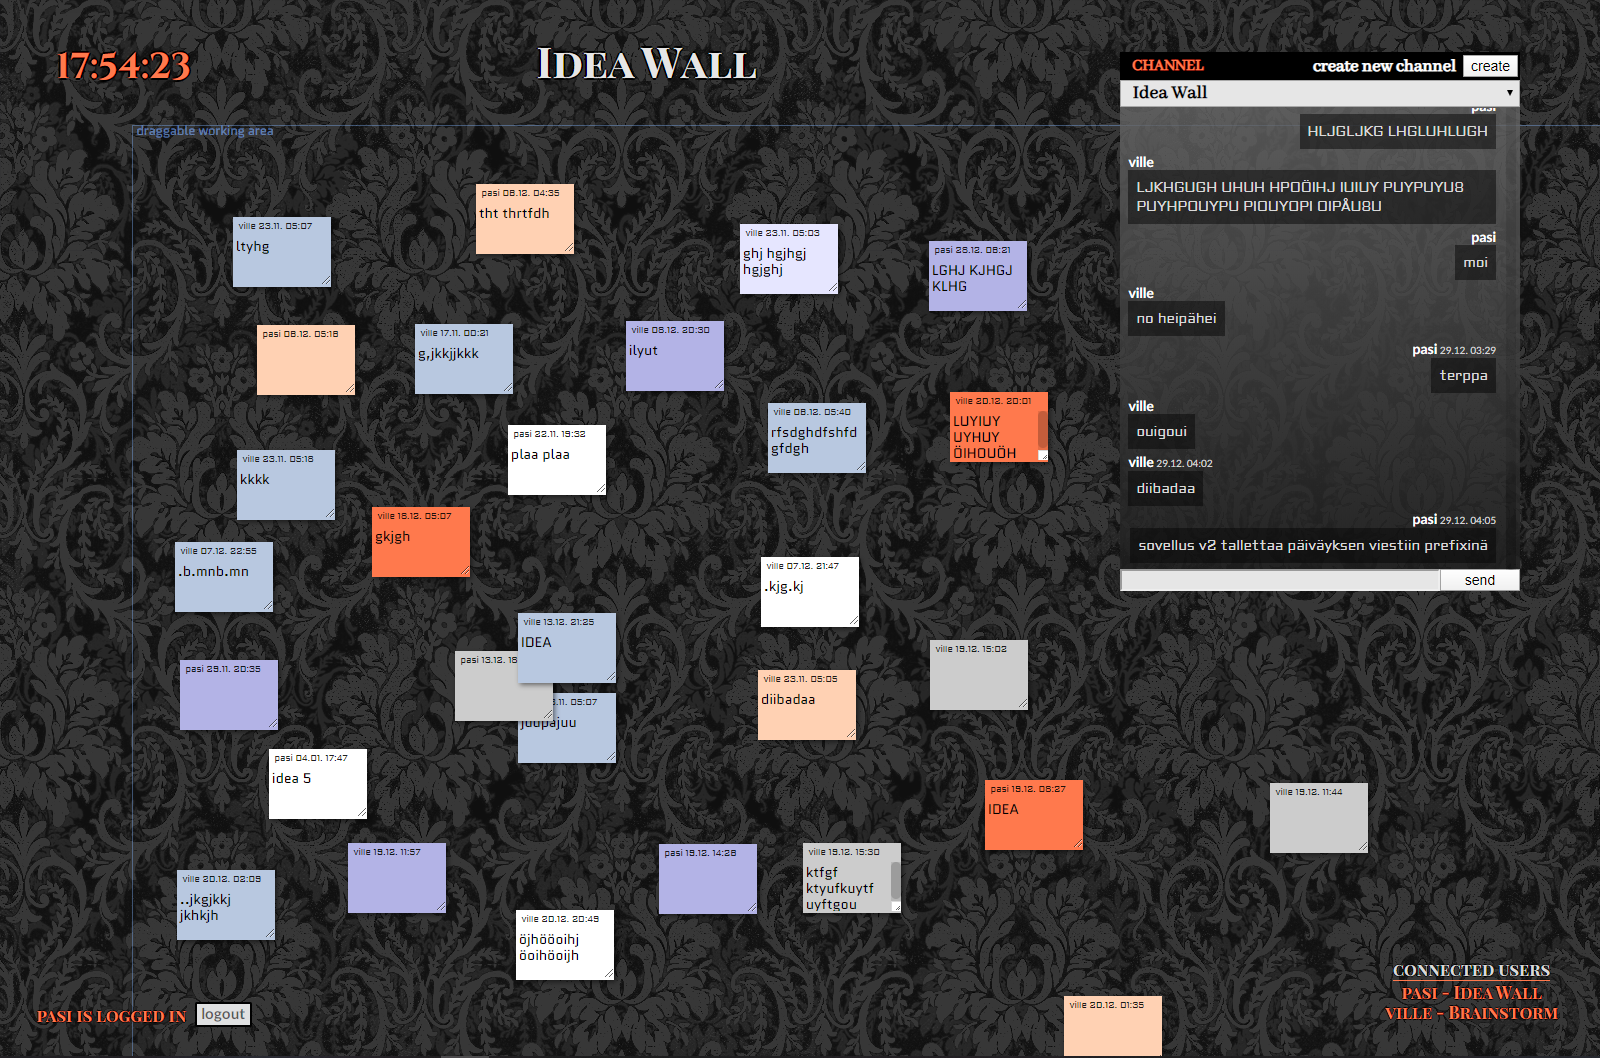
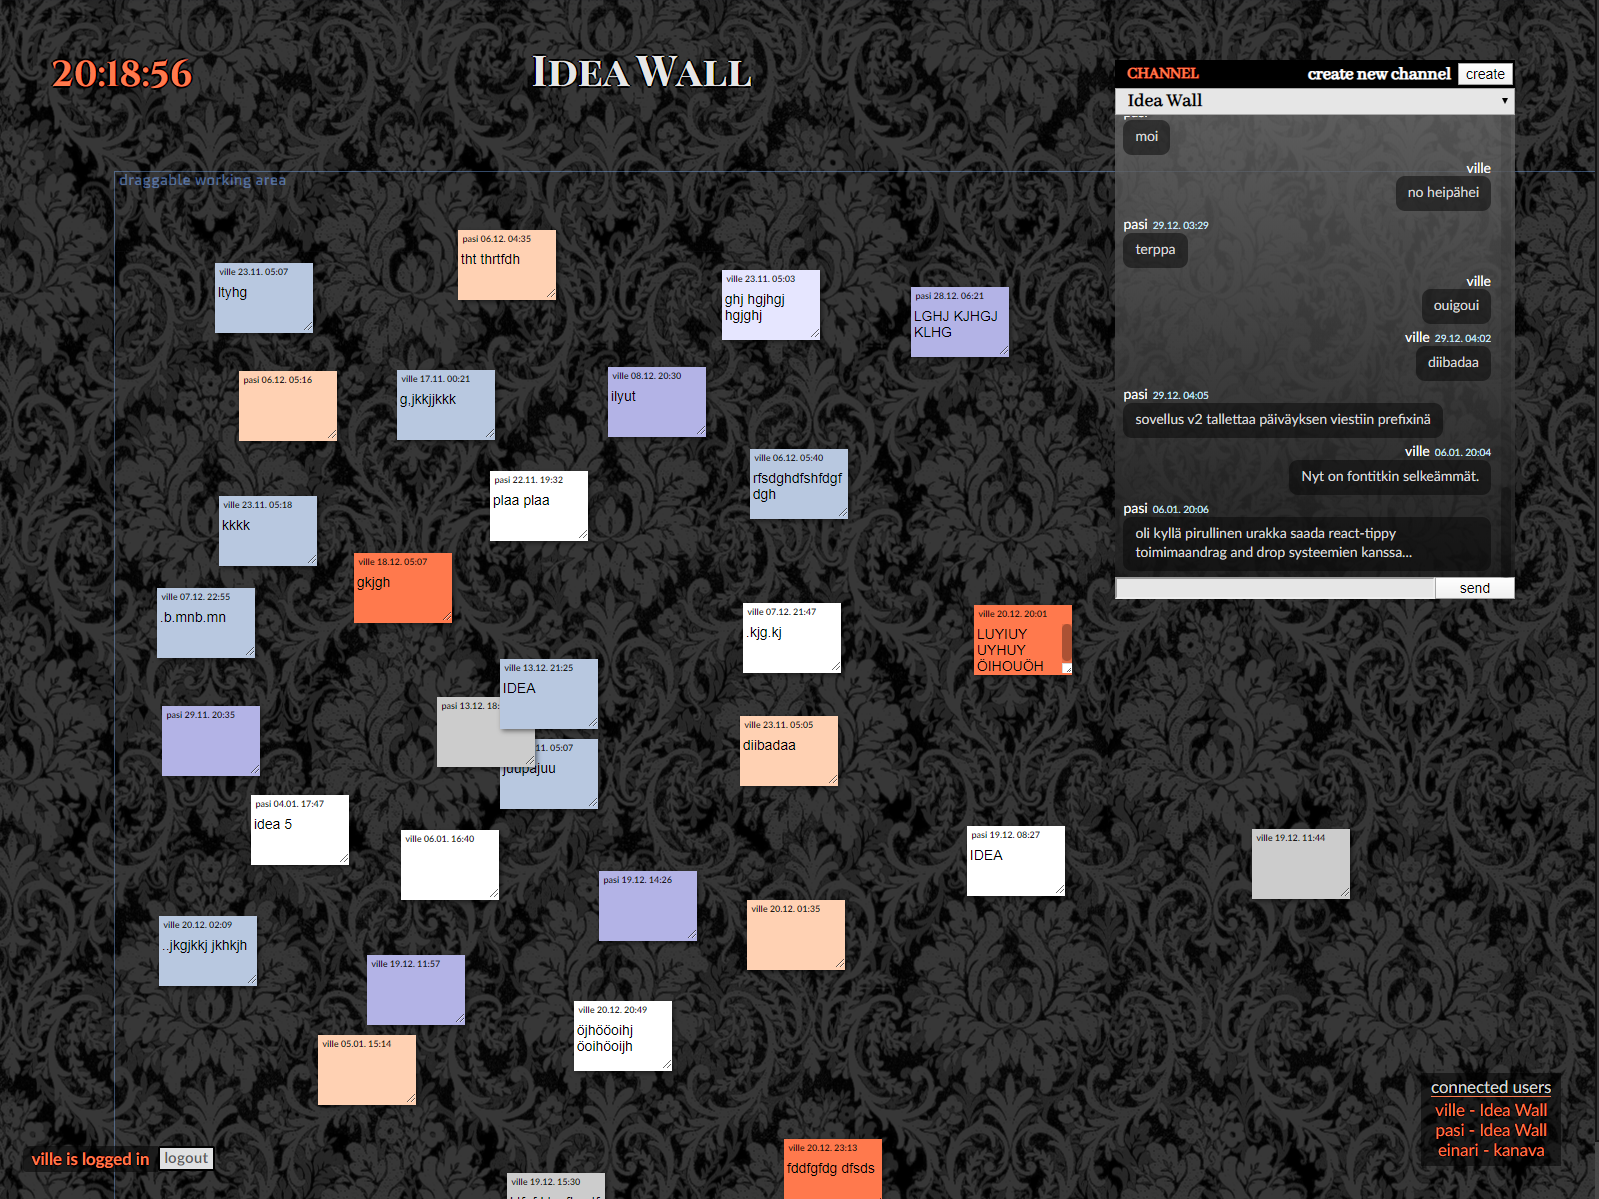
bugifiksauksia ja fonttien kaa vaiheilua

diff --git a/chat-client/src/components/DnDContainer.js b/chat-client/src/components/DnDContainer.js
@@ -1,4 +1,4 @@
-import React, { useState } from 'react'
+import React, { useState, useEffect, useCallback, useRef } from 'react'
 import { useDrop } from 'react-dnd'
 import Note from './Note'
 import {addNote, setNote, deleteNote} from '../reducers/noteReducer'
@@ -15,7 +15,9 @@ const DnDContainer = (props) => {
   const [menu2, setMenu2] = useState({visible: false})
   const [pos, setPos] = useState({left:'0px',top:'0px'})
   const [open, setOpen] = useState(undefined)
-		
+    
+
+
   const [, drop] = useDrop({
     accept: 'note',
     drop(item, monitor) {
@@ -34,6 +36,11 @@ const DnDContainer = (props) => {
   }
   const handleContextMenu = (event) => {
     event.preventDefault()
+    if(menu.visible || menu2.visible){
+      setMenu2({visible: false})
+      setMenu({visible: false})
+      return
+    }
     if(event.target.id === 'dnd'){
       let top = event.nativeEvent.offsetY - document.getElementById('wa').offsetHeight
       setMenu({visible: true, style:{zIndex:1000,position: 'absolute', left:event.nativeEvent.offsetX, top}})
@@ -118,7 +125,6 @@ const DnDContainer = (props) => {
   let moveContent = false
 	
   const move = e => {
-
     if(e.target.className === 'txt-mesta' || e.target.className === 'note') {
       setOpen(false)
       return
@@ -150,13 +156,31 @@ const DnDContainer = (props) => {
         top : e.target.style.top 
       })
   }
-  let timeoutid = -1
-  const hideTip = () => {
-    clearTimeout(timeoutid)
-    timeoutid = setTimeout(() => {
-      setOpen(false)
-    },3000)
-  }
+
+  /*  TÄMÄ HÄSSÄKKÄ MUISTIVUOTOVAROITUKSEN TAKIA,
+   *  JOTA AIHEUTTAA SETTIMEOUT-FUNKTIO
+   */
+
+  let timeoutid = useRef(-1)
+  let o = useRef(true)
+
+  const hideTip = useCallback(() => {
+    clearTimeout(timeoutid.current)
+    if(o.current)
+      timeoutid.current = setTimeout(() => {
+        setOpen(false)
+      },3000)
+  },[timeoutid])
+
+  useEffect(() => {
+    return () => {
+      o.current = false
+      hideTip()
+    }
+  }, [hideTip])
+
+  /******************************************/
+
   const onpointerover = (e) => {
     if(e.target.id === 'dnd' && !open) {
       setOpen(true)
@@ -171,6 +195,8 @@ const DnDContainer = (props) => {
           title='add note with the right mouse button'
           trigger='mouseenter'
           followCursor='true'
+          theme='transparent'
+          duration='500'
           onShown={hideTip}
         >
           <div className='hoverjuttu'>
@@ -198,6 +224,7 @@ const DnDContainer = (props) => {
                   author={b.author}
                   date={b.date}
                   content={b.content}
+                  setOpen={setOpen}
                 />
               ))}
             </div>

diff --git a/chat-client/src/components/Chat.js b/chat-client/src/components/Chat.js
@@ -81,10 +81,10 @@ const Chat = (props) => {
 
         </div>
         <div style={{position:'absolute',bottom:'2em',left:'2em'}}>
-          <div style={{fontSize:'1.2em',float:'left',display:'inline',fontFamily: 'Playfair Display SC, serif',fontWeight:'500', color:'#ff794d',whiteSpace: 'nowrap',backgroundColor:'transparent',paddingTop:'0.2em', paddingBottom:'0.2em',paddingLeft:'0.5em',paddingRight:'0.5em',textShadow: '-1px 0 black, 0 1px black, 1px 0 black, 0 -1px black'}}>{props.user.username} is logged in </div>
-          <div style={{float:'left',display:'inline'}}><Button style={{border: '2px solid black',fontSize:'1.1em',marginLeft:'0em',borderRadius:'2px',paddingTop:'0.2em', paddingBottom:'0.2em',paddingLeft:'0.3em',paddingRight:'0.3em'}} onClick={handleLogout}>logout</Button></div>
+          <div style={{borderRadius:'8px 0px 0px 4px', fontSize:'1.2em',float:'left',display:'inline',fontWeight:'700', color:'#ff794d',whiteSpace: 'nowrap',backgroundColor:'rgba(0,0,0,0.5)',padding:'0.2em 0.5em 0.2em 0.5em',textShadow: '-1px 0 black, 0 1px black, 1px 0 black, 0 -1px black'}}>{props.user.username} is logged in </div>
+          <div style={{float:'left',display:'inline'}}><Button style={{border: '2px solid black',fontSize:'1.1em',marginLeft:'0em',borderRadius:'2px',padding:'0.2em 0.3em 0.2em 0.3em'}} onClick={handleLogout}>logout</Button></div>
         </div>
-        <div style={{lineHeight:'1.2em',fontSize:'1.2em',textAlign:'center', position:'absolute',bottom:'2em',right:'2em',paddingLeft:'0.25em',paddingTop:'0.4em',paddingBottom:'0em',paddingRight:'0.5em',fontFamily: 'Playfair Display SC, serif',fontWeight:'500', color:'#ff794d',whiteSpace: 'nowrap',backgroundColor:'transparent',textShadow: '-1px 0 black, 0 1px black, 1px 0 black, 0 -1px black'}}>
+        <div style={{lineHeight:'1.2em',fontSize:'1.2em',textAlign:'center', position:'absolute',bottom:'2em',right:'2em',padding:'0.3em 0.6em 0.3em 0.6em',fontWeight:'500', color:'#ff794d',whiteSpace: 'nowrap',backgroundColor:'rgba(0,0,0,0.5)',textShadow: '-1px 0 black, 0 1px black, 1px 0 black, 0 -1px black'}}>
           <span style={{fontWeight:'400',color:'#d9d9d9',textAlign:'center', borderBottom:'1px solid #ff794d'}}>connected users</span><ul style={{fontWeight:'400',listStyleType:'none',marginTop:'0',marginBottom:'0',padding:'0.2em 0 0 0'}}>{props.connectedUsers.map((e,i) => <li style={{flex:'right'}} key={i}>{e}</li>)}</ul>
         </div>
       </div>

diff --git a/chat-client/src/components/Message.js b/chat-client/src/components/Message.js
@@ -48,13 +48,13 @@ const Message = (props) => {
       </div>
     )
     return (
-      <div style={{padding:'8px',borderRadius:'0px',backgroundColor:'rgba(5, 5, 5,0.5)'}}>
+      <div style={{padding:'8px 12px 8px 12px',borderRadius:'9px',backgroundColor:'rgba(5, 5, 5,0.5)'}}>
         {msg}
       </div>
     )
   }
 
-  let style = {marginRight:'0.7rem',marginLeft:'0.3rem',marginBottom:'0.5rem',backgroundColor:'transparent', display:'inline-block', float:'left', fontFamily: 'Aldrich, sans-serif'}
+  let style = {marginRight:'0.7rem',marginLeft:'0.3rem',marginBottom:'0.5rem',backgroundColor:'transparent', display:'inline-block', float:'left'}
   let headerStyle = {marginRight:'0.7rem',marginLeft:'0.3rem',float:'left', lineHeight:'1em'}
 
   if(props.user == name){
@@ -65,8 +65,8 @@ const Message = (props) => {
   }
 
   const setHeader = () => {
-    if(date) return (<><span style={{color:'white',fontWeight:'900',marginBottom:'0px'}}>{name}</span><span style={{fontSize:'10px',marginBottom:'0px'}}>&nbsp;{date}</span><br/></>)
-    return (<><span style={{color:'white',fontWeight:'900',marginBottom:'0px'}}>{name}</span><br/></>)
+    if(date) return (<><span style={{color:'white',fontWeight:'500',marginBottom:'0px'}}>{name}</span><span style={{color: '#ccefff',fontSize:'10px',marginBottom:'0px'}}>&nbsp;&nbsp;{date}</span><br/></>)
+    return (<><span style={{color:'white',fontWeight:'500',marginBottom:'0px'}}>{name}</span><br/></>)
   }
 
   return (

diff --git a/chat-client/src/components/Note.js b/chat-client/src/components/Note.js
@@ -29,6 +29,7 @@ const Note = (props) => {
     },
   })
   if (isDragging) {
+    props.setOpen(false)
     return <div ref={drag} />
   }
 	
@@ -50,10 +51,12 @@ const Note = (props) => {
         <Tooltip
           title='open Edit Note - menu with the right mouse button'
           followCursor='true'
+          theme='transparent'
+          duration='500'
           trigger="mouseenter">
           <div>&nbsp; {props.author} {setDate(props.date)}</div>
         </Tooltip>
-        <textarea className='txt-mesta' style={{border: '0px solid transparent',paddingLeft:'0.2em',fontSize: '1rem',width:'100%', height:'70%', fontFamily: 'Quantico, sans-serif',backgroundColor:map.get(props.backgroundColor) }} 
+        <textarea className='txt-mesta' style={{border: '0px solid transparent',paddingLeft:'0.2em',fontSize: '1rem',width:'100%', height:'70%', backgroundColor:map.get(props.backgroundColor) }} 
           value={text} onChange={onChange}  onBlur={() => updateText(props.id)} />
       </div>
     </div>

diff --git a/chat-client/src/components/DnD.css b/chat-client/src/components/DnD.css
@@ -21,10 +21,10 @@
     font-weight:400;
     vertical-align:center;
     top:0px;
-    font-size:0.9em;
-    line-height:0.9em;
+    font-size:1.1em;
+    line-height:1.1em;
     color: transparent;
     transition: color 1s;
 }
 div.hoverjuttu:hover #dnd {outline-color: rgba(128, 179, 255,0.4);}
-div.hoverjuttu:hover #wa {color: rgba(128, 179, 255,0.6);}
+div.hoverjuttu:hover #wa {color: rgba(128, 179, 255,0.5);}

diff --git a/chat-client/public/index.html b/chat-client/public/index.html
@@ -29,7 +29,7 @@
     -->
     <title>Chat</title>
   </head>
-  <body style="overflow-y:hidden;background: rgb(15, 15, 15);">
+  <body style="overflow-y:hidden;background: black;">
     <noscript>You need to enable JavaScript to run this app.</noscript>
     <div id="fg2"><div id="root"></div></div>
     <!--

diff --git a/chat-client/src/components/Message.css b/chat-client/src/components/Message.css
@@ -1,6 +1,6 @@
 .mymessage {
-    padding:4px;
-    border-radius:0px;
+    padding:4px 8px 4px 8px;
+    border-radius:9px;
     background-color:rgba(5, 5, 5,0.5);
     border: 4px solid transparent;
     animation-name: example;

diff --git a/chat-client/src/components/Note.css b/chat-client/src/components/Note.css
@@ -8,7 +8,7 @@
     white-space:nowrap;
 	width: 7rem;
     height: 5rem;
-    font-family: 'Aldrich', sans-serif;
+    font-weight: 700;
     transition: outline 1s;
 }
 .note:hover {
